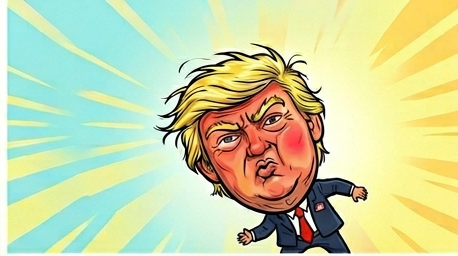
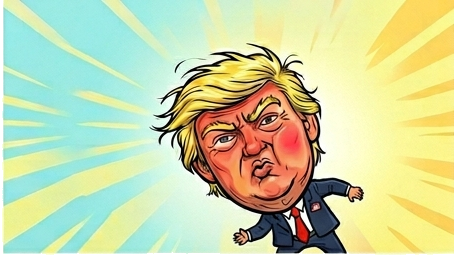
feat: app switch detector, umph sound, counter bounce, image cleanup
Detection:
- AppSwitchDetector: fires when switching apps >10 times in 2 min
- Uses NSWorkspace notification (no permissions needed)
- 10 Trump roasts for app switching

Slap audio:
- Added umph sound between slap impact and voice line
- Sequence: slap (0ms) → umph (+80ms) → voice (+350ms)
- Slap tempo baseTempo 0.5→0.65 (slower combo feel)

Slap counter:
- Bounce animation on each hit (scale 2x→1x spring)
- Colors from hit 1: yellow→orange→red→pink→purple→cyan

Polish:
- Removed white borders from all trump face images
- Menubar sprite frames (pixel art Trump, retro style)
- Comic text longer hold time (text stays until panel dismisses)

diff --git a/JudgyMac/App/AppDelegate.swift b/JudgyMac/App/AppDelegate.swift
@@ -21,6 +21,11 @@ final class AppDelegate: NSObject, NSApplicationDelegate, @preconcurrency UNUser
     private var currentAnimationInterval: TimeInterval = 2.5
     private var systemStatsTick = 0  // throttle heavy stats polling
 
+    // Sprite run cycle for character packs
+    private var spriteFrames: [NSImage] = []
+    private var spriteTimer: Timer?
+    private var spriteFrame = 0
+
     // MARK: - App Lifecycle
 
     private var saveTimer: Timer?
@@ -89,8 +94,9 @@ final class AppDelegate: NSObject, NSApplicationDelegate, @preconcurrency UNUser
     private func setupStatusItem() {
         statusItem = NSStatusBar.system.statusItem(withLength: NSStatusItem.variableLength)
 
+        loadSpriteFrames()
+
         if let button = statusItem.button {
-            // Initial icon — Fluent Emoji
             updateMenuBarIcon()
             button.action = #selector(togglePopover)
             button.target = self
@@ -155,6 +161,9 @@ final class AppDelegate: NSObject, NSApplicationDelegate, @preconcurrency UNUser
     }
 
     private func updateMenuBarIcon() {
+        // Sprite animation handles its own icon updates
+        if spriteTimer != nil { return }
+
         let faceName = FluentEmoji.face(for: currentMood, frame: animationFrame)
         let emojiImage = FluentEmoji.menuBarImage(named: faceName)
 
@@ -279,6 +288,63 @@ final class AppDelegate: NSObject, NSApplicationDelegate, @preconcurrency UNUser
         image.unlockFocus()
         image.isTemplate = false
         return image
+    }
+
+    // MARK: - Sprite Animation
+
+    /// Load run-cycle frames from CharacterPacks/{packId}/menubar_frames/
+    private func loadSpriteFrames() {
+        spriteTimer?.invalidate()
+        spriteTimer = nil
+        spriteFrames.removeAll()
+
+        let packId = _appState.currentPack.id
+        guard let dirURL = Bundle.main.resourceURL?
+            .appendingPathComponent("CharacterPacks")
+            .appendingPathComponent(packId)
+            .appendingPathComponent("menubar_frames") else { return }
+
+        guard let files = try? FileManager.default.contentsOfDirectory(
+            at: dirURL, includingPropertiesForKeys: nil
+        ).filter({ $0.pathExtension == "png" }).sorted(by: { $0.lastPathComponent < $1.lastPathComponent })
+        else { return }
+
+        spriteFrames = files.compactMap { url in
+            guard let img = NSImage(contentsOf: url) else { return nil }
+            img.size = NSSize(width: 20, height: 32)
+            img.isTemplate = false
+            return img
+        }
+
+        #if DEBUG
+        print("🎬 [Sprite] Loaded \(spriteFrames.count) menubar frames for '\(packId)'")
+        #endif
+
+        if !spriteFrames.isEmpty {
+            startSpriteAnimation()
+        }
+    }
+
+    private func startSpriteAnimation() {
+        spriteFrame = 0
+        // ~6 FPS — 4 frames = smooth run cycle
+        spriteTimer = Timer.scheduledTimer(withTimeInterval: 0.16, repeats: true) { [weak self] _ in
+            guard let self, !self.spriteFrames.isEmpty else { return }
+            Task { @MainActor in
+                self.spriteFrame = (self.spriteFrame + 1) % self.spriteFrames.count
+                let image = self.spriteFrames[self.spriteFrame]
+
+                let cpu = Int(self._appState.cpuUsage * 100)
+                let gpu = Int(self._appState.gpuUsage * 100)
+                let ram = Int(self._appState.ramUsage * 100)
+
+                let stats = [("CPU", "\(cpu)%"), ("GPU", "\(gpu)%"), ("RAM", "\(ram)%")]
+                let combined = self.renderMenuBarImage(emoji: image, stats: stats)
+                combined.accessibilityDescription = "JudgyMac"
+                self.statusItem.button?.image = combined
+                self.statusItem.button?.title = ""
+            }
+        }
     }
 
     // MARK: - Popover

diff --git a/JudgyMac/Detection/AppSwitchDetector.swift b/JudgyMac/Detection/AppSwitchDetector.swift
@@ -1,0 +1,79 @@
+import AppKit
+import Foundation
+
+/// Detects rapid app switching — a sign of procrastination.
+/// Uses NSWorkspace.didActivateApplicationNotification (no permissions needed).
+/// Fires when user switches apps > threshold times within a rolling window.
+final class AppSwitchDetector: BehaviorDetector, @unchecked Sendable {
+    private(set) var isRunning = false
+
+    private var onEvent: (@Sendable (BehaviorEvent) -> Void)?
+    private var observer: NSObjectProtocol?
+    private var switchTimestamps: [Date] = []
+    private var lastFireTime: Date?
+
+    /// Fire when user switches apps this many times within the window
+    private let switchThreshold = 10
+    /// Rolling time window (seconds)
+    private let windowSeconds: TimeInterval = 120  // 2 minutes
+    /// Cooldown between fires
+    private let cooldownSeconds: TimeInterval = 180  // 3 minutes
+
+    func start(onEvent: @escaping @Sendable (BehaviorEvent) -> Void) {
+        guard !isRunning else { return }
+        self.onEvent = onEvent
+        isRunning = true
+
+        observer = NSWorkspace.shared.notificationCenter.addObserver(
+            forName: NSWorkspace.didActivateApplicationNotification,
+            object: nil,
+            queue: .main
+        ) { [weak self] notification in
+            guard let self else { return }
+            let appName = (notification.userInfo?[NSWorkspace.applicationUserInfoKey] as? NSRunningApplication)?
+                .localizedName ?? "Unknown"
+            self.recordSwitch(app: appName)
+        }
+
+        #if DEBUG
+        print("🔄 [AppSwitch] Started — threshold: \(switchThreshold) switches in \(Int(windowSeconds))s")
+        #endif
+    }
+
+    func stop() {
+        guard isRunning else { return }
+        isRunning = false
+        if let observer {
+            NSWorkspace.shared.notificationCenter.removeObserver(observer)
+        }
+        observer = nil
+    }
+
+    private func recordSwitch(app: String) {
+        let now = Date()
+        switchTimestamps.append(now)
+
+        // Prune timestamps outside the window
+        switchTimestamps.removeAll { now.timeIntervalSince($0) > windowSeconds }
+
+        // Check threshold
+        guard switchTimestamps.count >= switchThreshold else { return }
+
+        // Cooldown check
+        if let lastFire = lastFireTime, now.timeIntervalSince(lastFire) < cooldownSeconds {
+            return
+        }
+
+        lastFireTime = now
+        let count = switchTimestamps.count
+
+        #if DEBUG
+        print("🔄 [AppSwitch] \(count) switches in \(Int(windowSeconds))s — procrastinating! Last app: \(app)")
+        #endif
+
+        onEvent?(.appSwitch(count: count, app: app))
+
+        // Reset after firing
+        switchTimestamps.removeAll()
+    }
+}

diff --git a/JudgyMac/Slap/SlapAnimationView.swift b/JudgyMac/Slap/SlapAnimationView.swift
@@ -48,6 +48,7 @@ struct SlapAnimationView: View {
 
     @State private var comicTexts: [ComicText] = []
     @State private var appeared = false
+    @State private var counterBounce = true
     @State private var impact = ImpactSnapshot()
 
     @State private var slapSign: Double = 0 // 0 = not chosen yet
@@ -129,7 +130,7 @@ struct SlapAnimationView: View {
                     comicTextView(comic)
                 }
 
-                // Hit counter — overlaid near bottom of face
+                // Hit counter
                 if state.hitCount > 0 {
                     Text("× \(state.hitCount)")
                         .font(.system(size: 64, weight: .black, design: .rounded))
@@ -137,6 +138,8 @@ struct SlapAnimationView: View {
                         .shadow(color: .black, radius: 0, x: 2, y: 2)
                         .shadow(color: .black, radius: 0, x: -1, y: -1)
                         .contentTransition(.numericText())
+                        .scaleEffect(counterBounce ? 1 : 2.0)
+                        .animation(.spring(duration: 0.2, bounce: 0.4), value: counterBounce)
                         .animation(.spring(duration: 0.15), value: state.hitCount)
                         .offset(y: faceSize * 0.45)
                 }
@@ -291,6 +294,12 @@ struct SlapAnimationView: View {
             jiggleIntensity: jiggle
         )
 
+        // Counter slam-in bounce
+        counterBounce = false
+        DispatchQueue.main.asyncAfter(deadline: .now() + 0.05) {
+            counterBounce = true
+        }
+
         // Comic text
         addComicText(level: level)
     }
@@ -370,17 +379,14 @@ struct SlapAnimationView: View {
     // MARK: - Counter
 
     private var counterColor: Color {
-        let tier = state.hitCount / 10
-        switch tier {
-        case 0: return .white
-        case 1: return .yellow
-        case 2: return .orange
-        case 3: return .red
-        case 4: return .pink
-        case 5: return .purple
-        case 6: return .cyan
-        case 7: return .mint
-        default: return Color(hue: Double(tier % 10) / 10.0, saturation: 1, brightness: 1)
+        switch state.hitCount {
+        case 1...3:   return .yellow
+        case 4...7:   return .orange
+        case 8...15:  return .red
+        case 16...25: return .pink
+        case 26...35: return .purple
+        case 36...45: return .cyan
+        default:      return Color(hue: Double(state.hitCount % 50) / 50.0, saturation: 1, brightness: 1)
         }
     }
 }

diff --git a/JudgyMac/Models/BehaviorEvent.swift b/JudgyMac/Models/BehaviorEvent.swift
@@ -8,6 +8,7 @@ enum TriggerType: String, CaseIterable, Codable, Sendable {
     case thermal = "thermal"
     case idle = "idle"
     case screenTime = "screen_time"
+    case appSwitch = "app_switch"
     case slap = "slap"
 
     var displayName: String {
@@ -19,6 +20,7 @@ enum TriggerType: String, CaseIterable, Codable, Sendable {
         case .thermal:       return "Overheating"
         case .idle:          return "Too Idle"
         case .screenTime:    return "Screen Time"
+        case .appSwitch:     return "App Switching"
         case .slap:          return "Slap"
         }
     }
@@ -32,6 +34,7 @@ enum TriggerType: String, CaseIterable, Codable, Sendable {
         case .thermal:       return "Roast when your Mac overheats"
         case .idle:          return "Roast after 10 minutes of inactivity"
         case .screenTime:    return "Remind to take a break every 45 minutes"
+        case .appSwitch:     return "Roast when switching apps too frequently"
         case .slap:          return "⌘ + ⇧ + Click to slap the character"
         }
     }
@@ -45,6 +48,7 @@ enum TriggerType: String, CaseIterable, Codable, Sendable {
         case .thermal:       return "flame.fill"
         case .idle:          return "zzz"
         case .screenTime:    return "eye.fill"
+        case .appSwitch:     return "arrow.left.arrow.right"
         case .slap:          return "hand.raised.fill"
         }
     }
@@ -89,6 +93,10 @@ struct BehaviorEvent: Sendable {
 
     static func screenTime(minutes: Int) -> BehaviorEvent {
         BehaviorEvent(type: .screenTime, metadata: ["minutes": "\(minutes)"])
+    }
+
+    static func appSwitch(count: Int, app: String) -> BehaviorEvent {
+        BehaviorEvent(type: .appSwitch, metadata: ["count": "\(count)", "app": app])
     }
 
     static func slap(pressure: Double) -> BehaviorEvent {

diff --git a/JudgyMac/Utilities/Constants.swift b/JudgyMac/Utilities/Constants.swift
@@ -19,7 +19,7 @@ enum Constants {
 
         // Base tempo — all slap timing scales from this (seconds)
         // Increase this single value to slow everything down proportionally
-        static let baseTempo: TimeInterval = 0.5
+        static let baseTempo: TimeInterval = 0.65
 
         /// Min interval between slaps (2 slaps/sec)
         static let debounceSeconds: TimeInterval = baseTempo
@@ -27,14 +27,14 @@ enum Constants {
         /// Idle time before slap window dismisses
         static let dismissIdleSeconds: TimeInterval = baseTempo * 5   // 2.5s
 
-        /// Comic text hold time before fading
-        static let comicHoldSeconds: TimeInterval = baseTempo * 2.5   // 1.25s
+        /// Comic text hold time before fading (must be > dismissIdleSeconds so panel fades first)
+        static let comicHoldSeconds: TimeInterval = baseTempo * 5.5
 
         /// Comic text total lifetime (hold + fade)
-        static let comicLifetimeSeconds: TimeInterval = baseTempo * 4  // 2.0s
+        static let comicLifetimeSeconds: TimeInterval = baseTempo * 7
 
         /// Comic text fade duration
-        static let comicFadeSeconds: TimeInterval = baseTempo * 1.5   // 0.75s
+        static let comicFadeSeconds: TimeInterval = baseTempo * 1.5
     }
 
     enum Detection {

diff --git a/JudgyMac/Utilities/SoundPlayer.swift b/JudgyMac/Utilities/SoundPlayer.swift
@@ -36,15 +36,23 @@ enum SoundPlayer {
         activePlayers.append(player)
     }
 
-    /// Play slap impact + voice reaction with slight delay between them.
-    static func playSlapCombo(slapSound: String, voiceSound: String?) {
+    /// Play slap impact + umph + voice reaction with delays between them.
+    static func playSlapCombo(slapSound: String, umphSound: String? = nil, voiceSound: String?) {
         // Slap impact — immediate
         play(slapSound)
 
-        // Voice reaction — slight delay for natural feel
+        // Umph reaction — short delay after impact
+        if let umph = umphSound {
+            Task {
+                try? await Task.sleep(for: .milliseconds(80))
+                play(umph, volume: 0.85)
+            }
+        }
+
+        // Voice line — after umph settles
         guard let voice = voiceSound else { return }
         Task {
-            try? await Task.sleep(for: .milliseconds(50))
+            try? await Task.sleep(for: .milliseconds(umphSound != nil ? 350 : 50))
             play(voice, volume: 0.9)
         }
     }

diff --git a/JudgyMac/Slap/SlapWindow.swift b/JudgyMac/Slap/SlapWindow.swift
@@ -134,7 +134,11 @@ final class SlapWindow {
         // Pick ONE reaction line → use both text and voice
         let pickedLine = pickReactionLine(pack: pack)
         slapState.currentReactionText = pickedLine?.text
-        SoundPlayer.playSlapCombo(slapSound: pack.slapSoundPath, voiceSound: pickedLine?.voicePath)
+        SoundPlayer.playSlapCombo(
+            slapSound: pack.slapSoundPath,
+            umphSound: "\(pack.folderPath)/slap_voice",
+            voiceSound: pickedLine?.voicePath
+        )
 
         restartDismissTimer()
     }

diff --git a/JudgyMac/Detection/DetectionCoordinator.swift b/JudgyMac/Detection/DetectionCoordinator.swift
@@ -27,6 +27,7 @@ final class DetectionCoordinator {
 
         detectors[.idle] = IdleDetector()
         detectors[.screenTime] = ScreenTimeDetector()
+        detectors[.appSwitch] = AppSwitchDetector()
         detectors[.thermal] = ThermalDetector()
         detectors[.slap] = SlapDetector()
     }

diff --git a/JudgyMac/MenuBar/MoodEngine.swift b/JudgyMac/MenuBar/MoodEngine.swift
@@ -24,6 +24,9 @@ enum MoodEngine {
         case .screenTime:
             return .judging
 
+        case .appSwitch:
+            return .judging
+
         case .slap:
             return .raging
         }
